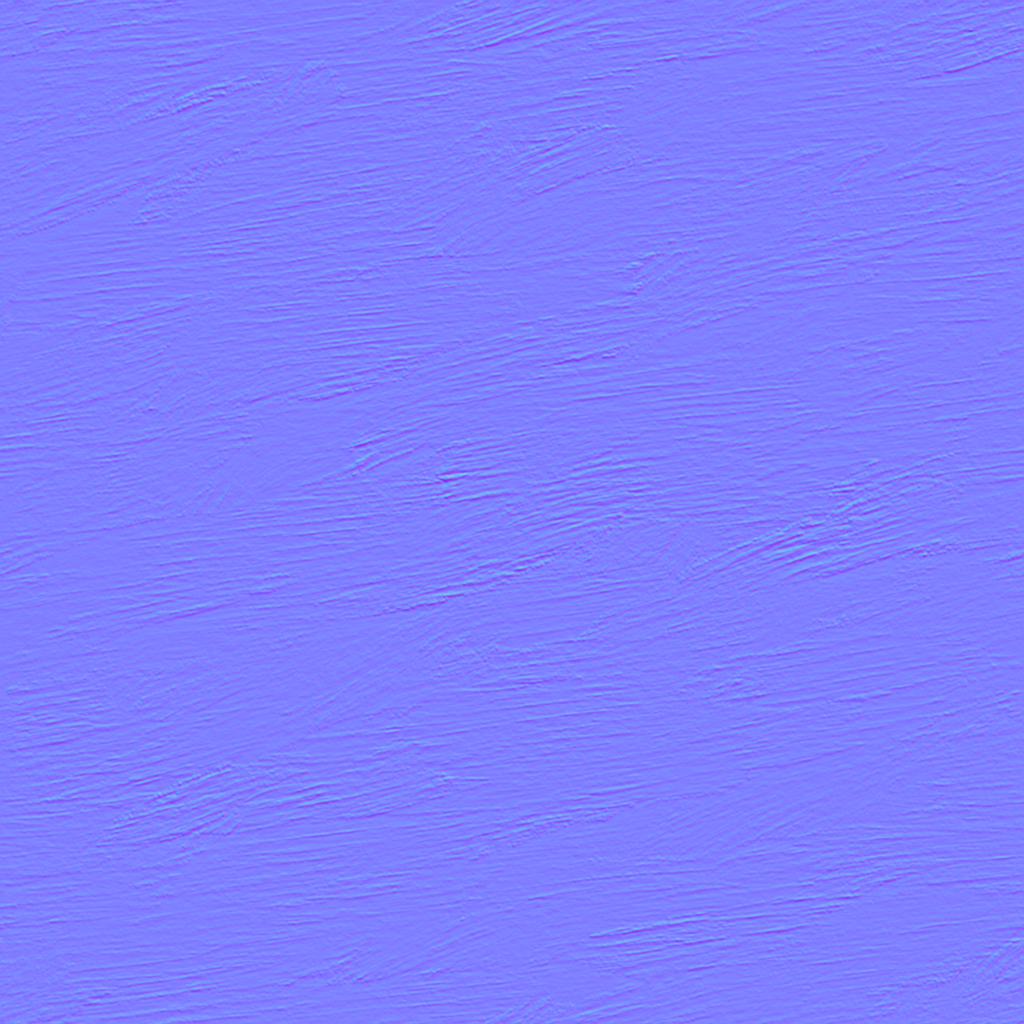
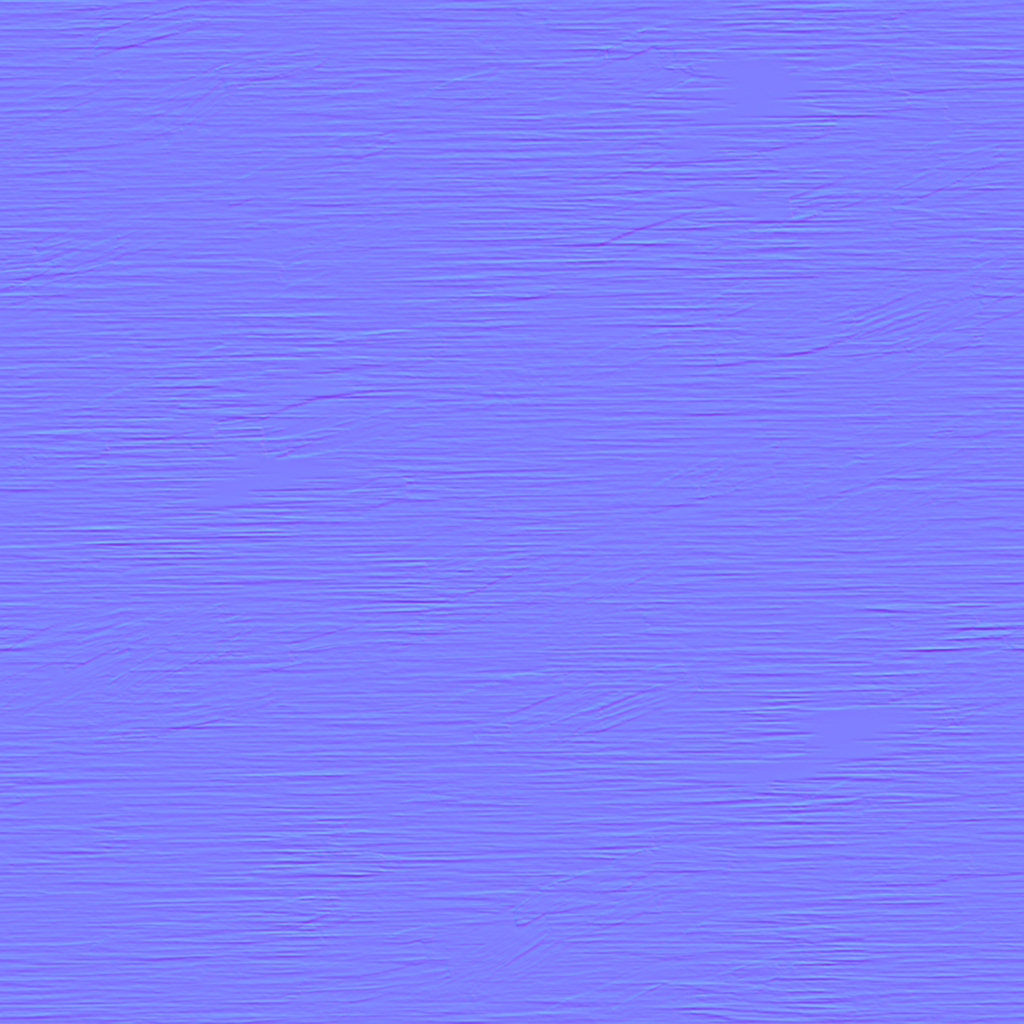
art: refresh lavender crystal and brushed stainless steel surfaces

diff --git a/docs/require.md b/docs/require.md
@@ -1,1 +1,1 @@
-以 Unity 搭建游戏框架，场景表面采用水粉厚涂笔触和印象派冷暖光色。大厅（Lobby）的「剧情」直接进入游戏（Gameplay）。地面宽 12 格、深 6 格，北墙宽 12 格、高 6 格。面向北墙，从左到右依次是金属、岩石、白面、水晶，每种材质从地板延续到北墙，各占 3 列。每格是一个六面可独立选材质的方块预设。白面支持安装传送门。岩石用高度图和法线图表现凹凸，金属有拉丝高光，水晶有切面和内部晶纹。金属和水晶贴图每格重复一次。朱雀从地面正中心出生。场内有一盏平行光，出生位置上方五格固定一盏点光源，另一盏点光源随朱雀移动。按 Esc 打开暂停菜单可返回大厅。
+以 Unity 搭建游戏框架，场景表面采用水粉厚涂笔触和印象派冷暖光色。大厅（Lobby）的「剧情」直接进入游戏（Gameplay）。地面宽 12 格、深 6 格，北墙宽 12 格、高 6 格。面向北墙，从左到右依次是金属、岩石、白面、水晶，每种材质从地板延续到北墙，各占 3 列。每格是一个六面可独立选材质的方块预设。白面支持安装传送门。岩石用高度图和法线图表现凹凸，金属采用银灰色拉丝不锈钢，朱雀移动时会出现银白色反光带，水晶采用淡紫色的交错切面，亮部呈短小的斜向折光，内部晶纹随视角产生视差。金属和水晶贴图每格重复一次。朱雀从地面正中心出生。场内有一盏平行光，出生位置上方五格固定一盏点光源，另一盏点光源随朱雀移动。按 Esc 打开暂停菜单可返回大厅。
